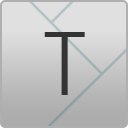
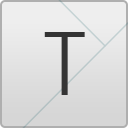
Side menu bug: ok
- also new app icon;
- social icons added;

diff --git a/Responsive APP sketch/index.html b/Responsive APP sketch/index.html
@@ -45,11 +45,13 @@
             <small>beta</small>
 
             <nav class="main-menu">
-            	<ul class="remove-bottom" style="margin-top:10px;">
+            	<ul class="remove-bottom">
                 	<li><a href="">Sobre</a></li>
                 	<li><a href="">Favoritos</a></li>
                     <li><a href="">Recentes</a></li>
-                    <li><a href="">Compartilhar</a></li>
+                    <li class="social"><a href=""><i class="ion-social-twitter"></i></a></li>
+                    <li class="social"><a href=""><i class="ion-social-facebook"></i></a></li>
+                    <li class="social"><a href=""><i class="ion-social-googleplus"></i></a></li>
                 </ul>
             </nav>
             
@@ -90,9 +92,7 @@
           </div>
          </div>
          
-
-      
-	</div><!-- container -->
+	</div> <!-- container -->
     	
         <div class="sb-slidebar sb-right">
             <nav class="side-menu">
@@ -100,23 +100,28 @@
                 	<li><a href="">Sobre</a></li>
                 	<li><a href="">Favoritos</a></li>
                     <li><a href="">Recentes</a></li>
-                    <li><a href="">Compartilhar</a></li>
+                    <hr class="dark"/>
+                    <li><a class="social-mobile" href=""><i class="ion-social-twitter"></i></a></li>
+                    <li><a class="social-mobile" href=""><i class="ion-social-facebook"></i></a></li>
+                    <li><a class="social-mobile" href=""><i class="ion-social-googleplus"></i></a></li>
                 </ul>
             </nav>
-        </div>
+        </div> <!-- slide menu -->
         
-		<!-- jQuery -->
-		<script src="http://ajax.googleapis.com/ajax/libs/jquery/1.10.2/jquery.min.js"></script>
 		
-		<!-- Slidebars -->
-		<script src="javascript/slidebars.min.js"></script>
-		<script>
-          (function($) {
-            $(document).ready(function() {
-              $.slidebars();
-            });
-          }) (jQuery);
-        </script>
+	<!-- Javascript
+ 	================================================== -->
+    <script src="http://ajax.googleapis.com/ajax/libs/jquery/1.10.2/jquery.min.js"></script>
+	<script src="javascript/slidebars.min.js"></script>
+    
+	<script>
+      (function($) {
+        $(document).ready(function() {
+          $.slidebars();
+		  siteClose: true;
+        });
+      }) (jQuery);
+    </script>
 
 
 <!-- End Document

diff --git a/Responsive APP sketch/stylesheets/slidebars.css b/Responsive APP sketch/stylesheets/slidebars.css
@@ -44,7 +44,7 @@
 	overflow-y: auto; /* Enable vertical scrolling on Slidebars when needed. */
 	position: fixed;
 	top: 0;
-	z-index: 2; /* Slidebars sit behind sb-site. */
+	z-index: 0; /* Slidebars sit behind sb-site. */
 	visibility: hidden; /* Initially hide the Slidebars. */
 	background-color: #222222; /* Default Slidebars background colour, overwrite this with your own css. */
 }
@@ -73,25 +73,25 @@ html.sb-active-right .sb-right {
 /* Media queries to set Slidebar widths. */
 @media (max-width: 480px) {
 	.sb-slidebar {
-		width: 70%; /* Slidebar width on extra small screens. */
+		width: 55%; /* Slidebar width on extra small screens. */
 	}
 }
 
 @media (min-width: 481px) and (max-width: 991px) {
 	.sb-slidebar {
-		width: 50%; /* Slidebar width on small screens. */
+		width: 40%; /* Slidebar width on small screens. */
 	}
 }
 
 @media (min-width: 992px) {
 	.sb-slidebar {
-		width: 35%; /* Slidebar width on medium screens. */
+		width: 25%; /* Slidebar width on medium screens. */
 	}
 }
 
 @media (min-width: 1200px) {
 	.sb-slidebar {
-		width: 20%; /* Slidebar width on large screens. */
+		width: 15%; /* Slidebar width on large screens. */
 	}
 }
 
@@ -100,10 +100,10 @@ html.sb-active-right .sb-right {
  */
 
 html.sb-anim-type-translate .sb-slide, html.sb-anim-type-side .sb-slide {
-	-webkit-transition: -webkit-transform 400ms ease;
-	   -moz-transition: -moz-transform 400ms ease;
-	     -o-transition: -o-transform 400ms ease;
-	        transition: transform 400ms ease;
+	-webkit-transition: -webkit-transform 600ms ease;
+	   -moz-transition: -moz-transform 600ms ease;
+	     -o-transition: -o-transform 600ms ease;
+	        transition: transform 600ms ease;
 	-webkit-transition-property: -webkit-transform, left; /* Add 'left' for Android < 4.4 */
 	-webkit-backface-visibility: hidden; /* Prevents flickering. */
 }

diff --git a/Responsive APP sketch/stylesheets/layout.css b/Responsive APP sketch/stylesheets/layout.css
@@ -29,6 +29,7 @@ nav.main-menu{
 	.main-menu ul{
 		text-align: center;
 		padding: 10px;
+		margin-top:10px;
 		display: inline-block; }
 		.main-menu ul li{
 			padding-right: 15px;
@@ -36,6 +37,10 @@ nav.main-menu{
 			display: inline;}
 			.main-menu ul li a{
 				display: inline-block; }
+			.main-menu ul li.social{
+				border:none;
+				font-size:16px;
+				padding-left:10px; }
 	
 nav.mobile-menu{
 	display:none !important;
@@ -60,6 +65,12 @@ nav.side-menu{ text-align:center; }
 		display:block;
 		color:#FFF;
 		text-decoration:none; }
+		nav.side-menu a.social-mobile{
+			width: 50px;
+			height:50px;
+			border-radius: 50%; }
+
+hr.dark { border: solid #333; border-width: 1px 0 0; clear: both; margin: 10px 0 30px; height: 0; }
 
 /* #Page Styles
 ================================================== */
